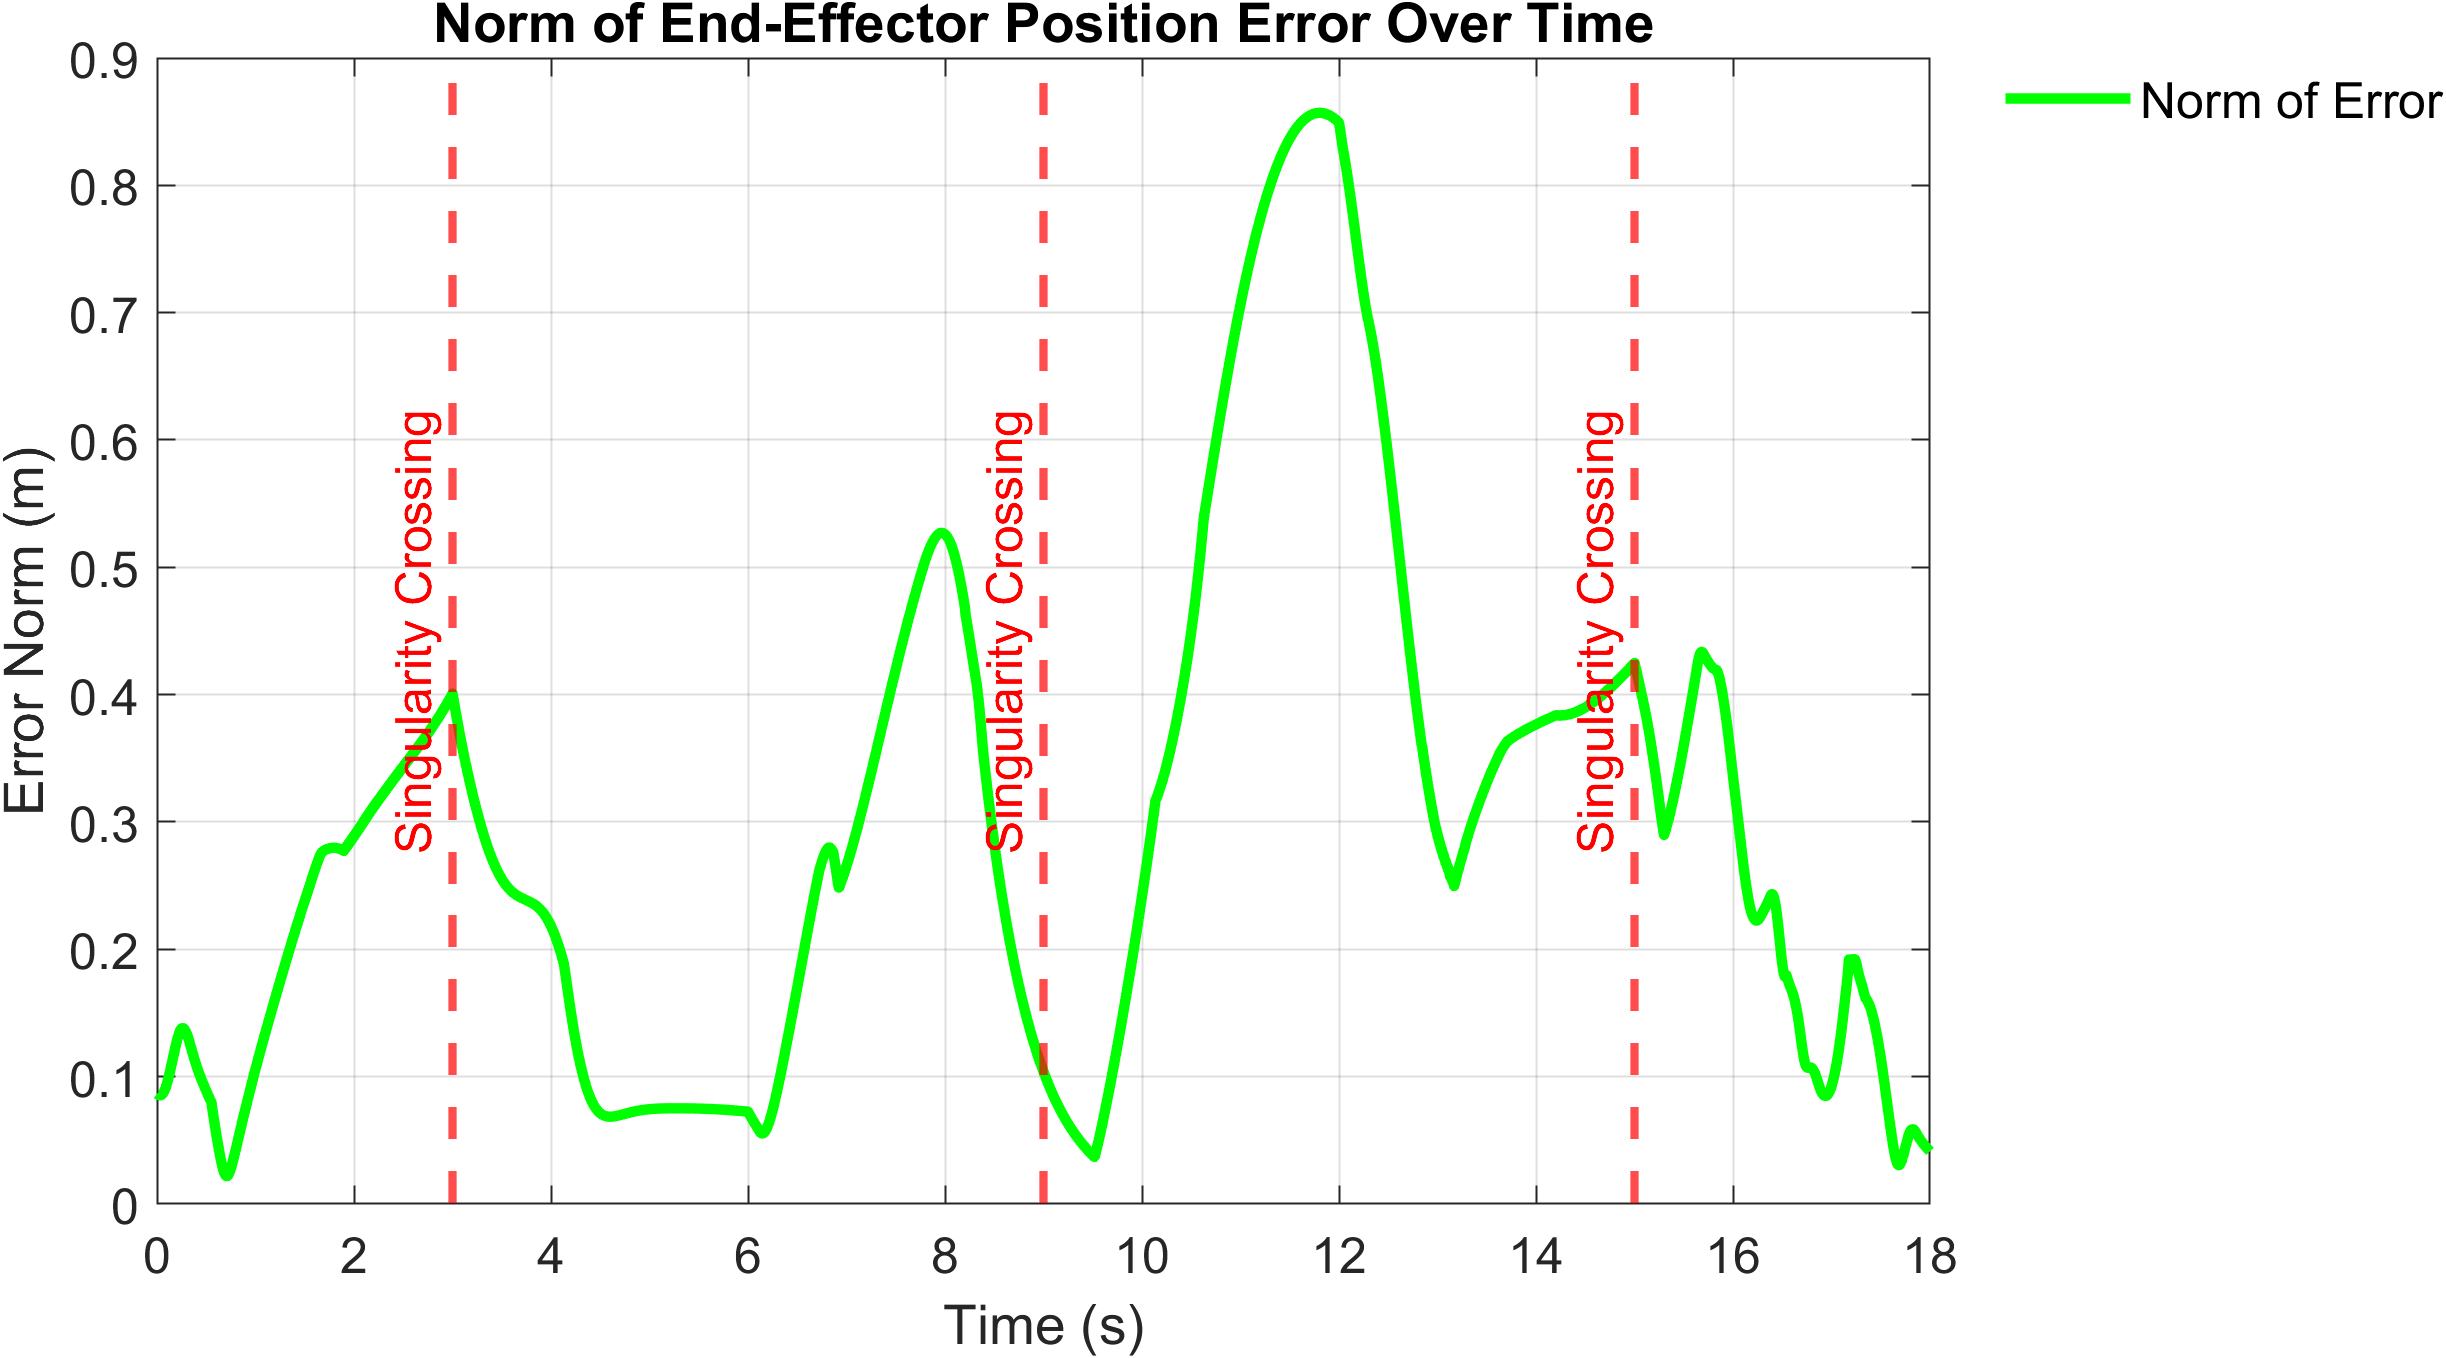
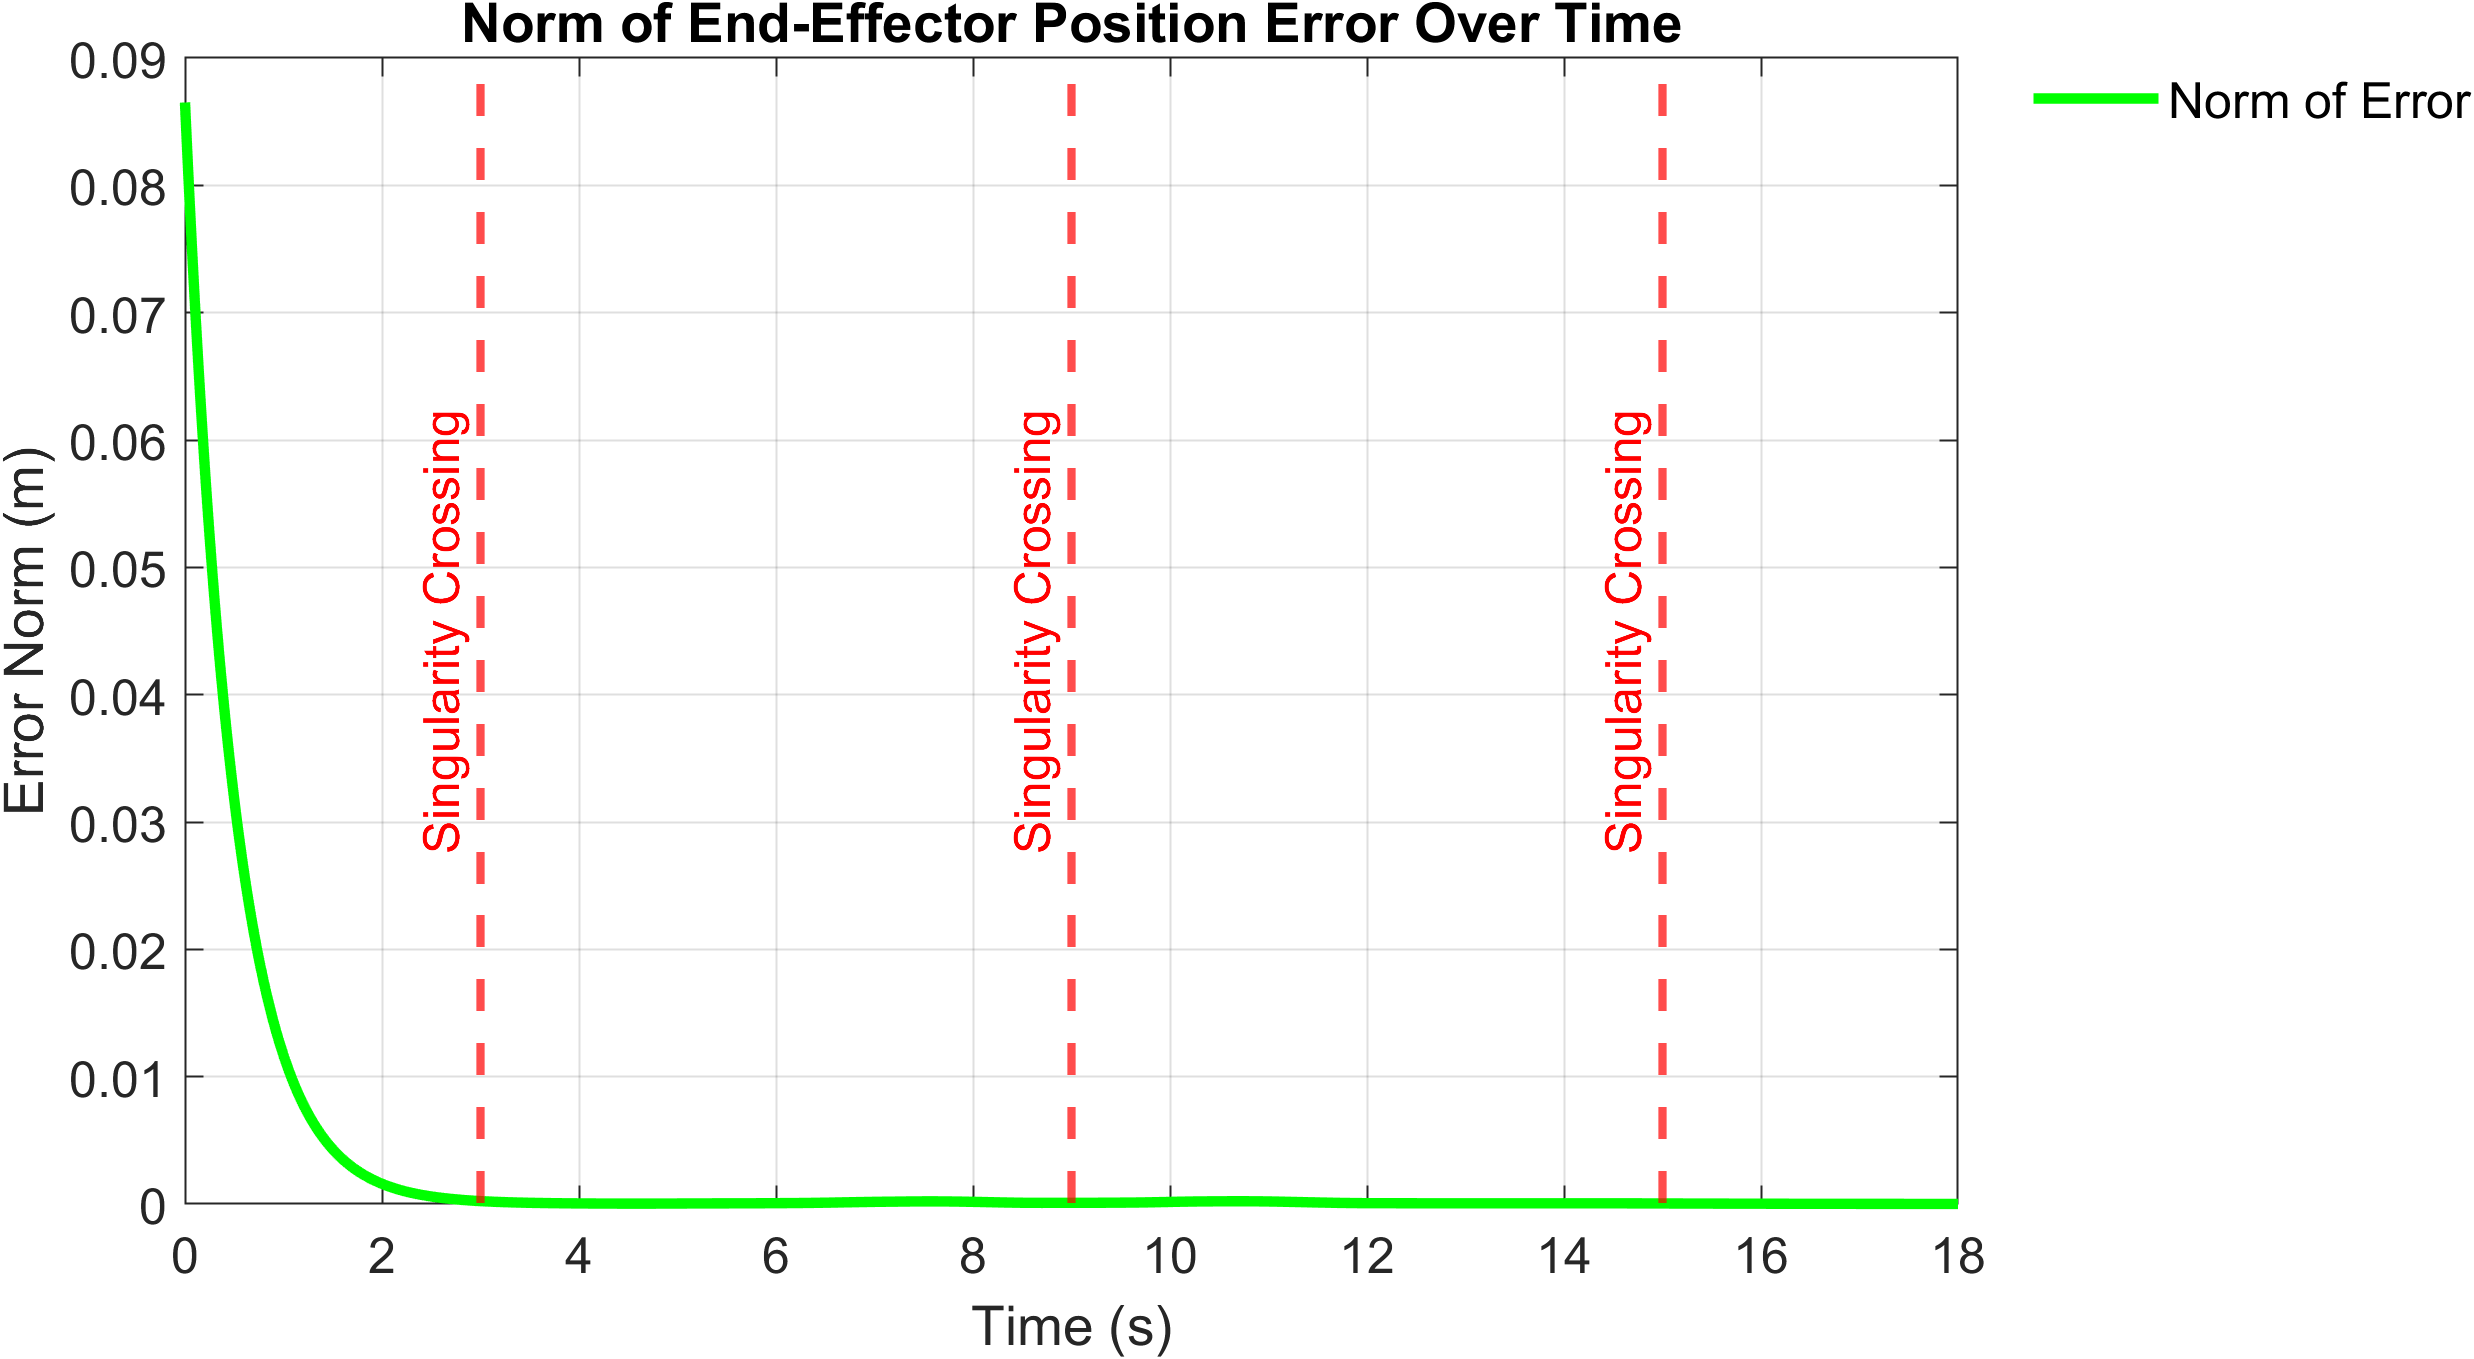
nominal cond in circular path

diff --git a/src/orientation_circular.m b/src/orientation_circular.m
@@ -68,6 +68,13 @@ tau = t_sym / T;
 
 s = 2* rep * pi * (6 * tau^5 - 15 * tau^4 + 10 * tau^3);
 
+eq1 = s == pi;
+t_sing_1 = double(solve(eq1, t_sym));
+eq2 = s == 3*pi;
+t_sing_2 = solve(eq2, t_sym);
+eq3 = s == 5*pi;
+t_sing_3 = double(solve(eq3, t_sym));
+
 p_x_t = C(1) + R * cos(s + gamma);
 p_y_t = C(2);
 p_z_t = C(3) + R * sin(s + gamma);
@@ -79,7 +86,9 @@ p_fin = subs(p_d_sym, t_sym, t_fin); % final position at t = T
 p_in = double(p_in); % convert to double
 p_fin = double(p_fin); % convert to double
 
-p_in = p_in + [-0.05; -0.05; -0.05];
+initial_offset = [-0.05; -0.05; -0.05];
+initial_offset = [0.0; 0.0; 0.0];
+p_in = p_in + initial_offset;
 q_in = num_IK_retry(p_in(1:3)); 
 q_fin = num_IK_retry(p_fin(1:3));
 
@@ -124,12 +133,12 @@ dp_list = []; % to store end-effector velocities
 ddp_list = []; % to store end-effector accelerations
 error_list = []; % to store error norms
 
-qA_idx = [1,2,3,4,5,6]; % indices of joints in A (nonsingular)
-qB_idx = [7]; % indices of joints in B (N-M = 1)
+qA_idx = [1,2,4,5,6,7]; % indices of joints in A (nonsingular)
+qB_idx = [3]; % indices of joints in B (N-M = 1)
 alpha = 1;
 damp = 2;
 use_RG = true; % use reduced gradient step if true, else use projected gradient step
-use_accel = false; % use acceleration if true, else use velocity
+use_accel = true; % use acceleration if true, else use velocity
 
 dt = 0.001; % time step
 t = 0.0;
@@ -157,12 +166,13 @@ while t <= t_fin % run for a fixed time
 
     % Switch indices based on which half of each repetition we're in
     rep_progress = mod(t * freq, 1); % progress within current repetition (0 to 1)
+
     if rep_progress < 0.5
-        qA_idx = [1,2,3,4,5,6]; % indices of joints in A (nonsingular)
-        qB_idx = [7]; % indices of joints in B (N-M = 1)
+        qA_idx = [1,2,4,5,6,7]; % indices of joints in A (nonsingular)
+        qB_idx = [3]; % indices of joints in B (N-M = 1)
     else
-        qA_idx = [1,2,3,4,5,7]; % indices of joints in A (nonsingular)
-        qB_idx = [6]; % indices of joints in B (N-M = 1)
+        qA_idx = [1,2,4,5,6,7]; % indices of joints in A (nonsingular)
+        qB_idx = [3]; % indices of joints in B (N-M = 1)
     end
 
     % Nominal Trajectory
@@ -265,7 +275,7 @@ time = 0:dt:t_fin;
 %% PLOT OF THE RESULTS
 % plot joint over time
 disp("Simulation finished. Plotting results...");
-t_sing = [T/6, T/2, 5*T/6];
+t_sing = [t_sing_1, t_sing_2, t_sing_3];
 
 if use_accel == true
     plot_all(   N, T, ...

diff --git a/src/Trajectory/reduced_grad_step.m b/src/Trajectory/reduced_grad_step.m
@@ -21,16 +21,16 @@ function dq = reduced_grad_step(q, dr, qA_idx, qB_idx, p_d, Kp)
     [M, N] = size(J); % M = 3 or 6, N = 7 (number of joints)
     Id = eye(N-M); % identity matrix of size (M-N)x(M-N)
 
-    disp("J: ");
-    disp(J);
+%     disp("J: ");
+%     disp(J);
 
     J_a = J(:, qA_idx); % (3x7 o 6x7) -> (3xN_a o 6xN_a) where N_a = length(qA_idx)
     J_b = J(:, qB_idx); % (3x7 o 6x7) -> (3xN_b o 6xN_b) where N_b = length(qB_idx)
 
-    disp("J_a: ");
-    disp(J_a);
-    disp("J_b: ");
-    disp(J_b);
+    % disp("J_a: ");
+    % disp(J_a);
+    % disp("J_b: ");
+    % disp(J_b);
 
     J_a_inv = pinv(J_a); % (N_a x M) matrix, where N_a = length(qA_idx), M = 3 or 6
     %J_a_inv = DLS(J_a); % damped least squares inverse of J_a

diff --git a/src/Trajectory/reduced_grad_step_acc.m b/src/Trajectory/reduced_grad_step_acc.m
@@ -20,16 +20,16 @@ function ddq = reduced_grad_step_acc(q, dq, ddr, qA_idx, qB_idx, p_d, dp_d, alph
 
     x_ddot = ddr - J_dot * dq; % acceleration adjusted with J_dot
 
-    disp("J: ");
-    disp(J);
+%     disp("J: ");
+%     disp(J);
 
     J_a = J(:, qA_idx); % (3x7 o 6x7) -> (3xN_a o 6xN_a) where N_a = length(qA_idx)
     J_b = J(:, qB_idx); % (3x7 o 6x7) -> (3xN_b o 6xN_b) where N_b = length(qB_idx)
 
-    disp("J_a: ");
-    disp(J_a);
-    disp("J_b: ");
-    disp(J_b);
+    % disp("J_a: ");
+    % disp(J_a);
+    % disp("J_b: ");
+    % disp(J_b);
 
     J_a_inv = inv(J_a); % (N_a x M) matrix, where N_a = length(qA_idx), M = 3 or 6
     %J_a_inv = DLS(J_a); % damped least squares inverse of J_a

diff --git a/src/RG_position_accel.m b/src/RG_position_accel.m
@@ -80,9 +80,9 @@ error_list = []; % to store error norms
 
 ms_a_list = []; % to store minimum singular values of J_a
 
-qA_idx = [2,4,5]; % indices of joints in A (nonsingular)
-qB_idx = [1, 3, 6, 7]; % indices of joints in B (N-M = 4)
-alpha = 0.025; % step size for the gradient step
+qA_idx = [1,2,4]; % indices of joints in A (nonsingular)
+qB_idx = [3, 5, 6, 7]; % indices of joints in B (N-M = 4)
+alpha = 1; % step size for the gradient step
 damp = 2; % damping factor for the gradient step
 
 dt = 0.001; % time step

diff --git a/src/RG_orientation_accel.m b/src/RG_orientation_accel.m
@@ -107,8 +107,8 @@ error_list = []; % to store error norms
 
 ms_a_list = []; % to store minimum singular values of J_a
 
-qA_idx = [1,2,3,4,5,6]; % indices of joints in A (nonsingular)
-qB_idx = [7]; % indices of joints in B (N-M = 1)
+qA_idx = [1,2,4,5,6,7]; % indices of joints in A (nonsingular)
+qB_idx = [3]; % indices of joints in B (N-M = 1)
 alpha = 1; % step size for the gradient step
 damp = 2; % damping factor for the gradient step
 

diff --git a/src/RG_position.m b/src/RG_position.m
@@ -80,8 +80,8 @@ error_list = []; % to store error norms
 
 ms_a_list = []; % to store minimum singular values of J_a
 
-qA_idx = [2,4,5]; % indices of joints in A (nonsingular)
-qB_idx = [1, 3, 6, 7]; % indices of joints in B (N-M = 4)
+qA_idx = [1,2,4]; % indices of joints in A (nonsingular)
+qB_idx = [3, 5, 6, 7]; % indices of joints in B (N-M = 4)
 
 dt = 0.001; % time step
 t = 0.0;

diff --git a/src/RG_orientation.m b/src/RG_orientation.m
@@ -103,8 +103,8 @@ error_list = []; % to store error norms
 
 ms_a_list = []; % to store minimum singular values of J_a
 
-qA_idx = [1,2,3,4,5,6]; % indices of joints in A (nonsingular)
-qB_idx = [7]; % indices of joints in B (N-M = 1)
+qA_idx = [1,2,4,5,6,7]; % indices of joints in A (nonsingular)
+qB_idx = [3]; % indices of joints in B (N-M = 1)
  
 dt = 0.001; % time step
 t = 0.0;
